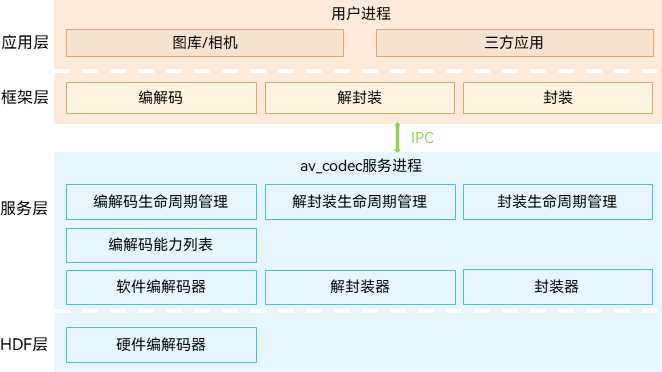
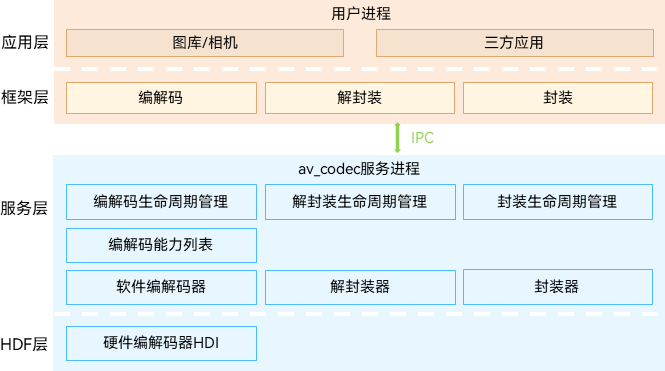
修改readme

diff --git a/README_zh.md b/README_zh.md
@@ -21,13 +21,13 @@ av_codec部件提供了以下常用功能：
 | 解封装 | 提供音视频资源的加载、音视频轨分离和音视频数据的读取的功能接口，读取的数据可使用解码器进行解码。 |
 | 封装 | 提供将编码后的音视频数据写入媒体文件的功能接口。 |
 | 编解码生命周期管理 | 用于服务端编解码功能的创建、销毁、实例管理等。 |
+| 解封装生命周期管理 | 用于服务端解封装功能的创建、销毁、实例管理等。 |
+| 封装生命周期管理 | 用于服务端封装功能的创建、销毁、实例管理等。 |
 | 编解码能力列表 | 用于描述所有编解码器的详细信息，比如名字、mimetype、支持的分辨率等。 |
 | 软件编解码器 | 使用CPU进行编解码处理的编解码器，提供编解码处理功能。 |
-| 硬件编解码器 | 使用硬件编解码器进行编解码处理的编解码器，提供编解码处理功能。 |
-| 解封装生命周期管理 | 用于服务端解封装功能的创建、销毁、实例管理等。 |
 | 解封装器 | 提供音视频资源的加载、音视频轨分离和音视频数据的读取处理的功能。 |
-| 封装生命周期管理 | 用于服务端封装功能的创建、销毁、实例管理等。 |
 | 封装器 | 提供将编码后的音视频数据写入媒体文件的功能。 |
+| 硬件编解码器HDI | 提供硬件编解码器的抽象接口，通过该接口对服务层屏蔽不同的硬件编解码器，向服务层提供硬件编解码能力。 |
 
 
 ## 目录
@@ -44,30 +44,30 @@ av_codec部件提供了以下常用功能：
 │   ├── inner_api                   # 系统内部件接口
 │   └── kits                        # 应用接口
 ├── sa_profile                      # 部件配置
-├── services                        # 服务C/S实现
+├── services                        # 服务实现代码
 │   ├── dfx                         # dfx代码
 │   ├── engine                      # 功能实现
 │   │   ├── base                    # 功能基类
 │   │   ├── codec                   # 编解码功能实现
 │   │   ├── codeclist               # 编解码能力查询功能实现
-│   │   ├── common                  # 功能实现通用资源
+│   │   ├── common                  # 功能实现公共库
 │   │   ├── demuxer                 # 解封装功能实现
-│   │   ├── factory                 # 功能实现工厂
+│   │   ├── factory                 # 功能实现工厂库
 │   │   ├── muxer                   # 封装功能实现
 │   │   ├── plugin                  # 插件实现
-│   │   └── source                  # 源读取器功能实现
+│   │   └── source                  # 媒体资源读取工具功能实现
 │   ├── etc                         # 部件进程配置
 │   ├── include                     # 服务对外头文件
-│   ├── services                    # 服务框架
-│   │   ├── codec                   # 编解码C/S框架
-│   │   ├── codeclist               # 编解码能力查询C/S框架
-│   │   ├── common                  # 服务框架通用资源
-│   │   ├── demuxer                 # 解封装C/S框架
-│   │   ├── factory                 # 服务框架工厂
-│   │   ├── muxer                   # 封装C/S框架
-│   │   ├── sa_avcodec              # 部件主进程C/S框架
-│   │   └── source                  # 源读取器C/S框架
-│   └── utils                       # 服务框架通用资源
+│   ├── services                    # 服务IPC实现
+│   │   ├── codec                   # 编解码IPC实现
+│   │   ├── codeclist               # 编解码能力查询IPC实现
+│   │   ├── common                  # 服务IPC实现公共库
+│   │   ├── demuxer                 # 解封装IPC实现
+│   │   ├── factory                 # 服务IPC实现工厂库
+│   │   ├── muxer                   # 封装IPC实现
+│   │   ├── sa_avcodec              # 部件主进程IPC实现
+│   │   └── source                  # 媒体资源读取工具IPC实现
+│   └── utils                       # 服务实现通用资源
 └── test                            # 测试代码
 ```
 
@@ -83,6 +83,9 @@ av_codec部件提供了以下常用功能：
 ```
 ./build.sh --product-name {product_name} --ccache --target-cpu arm64 --build-target av_codec
 ```
+
+{product_name}为当前支持的平台，比如rk3568。
+
 
 ## 说明
 
